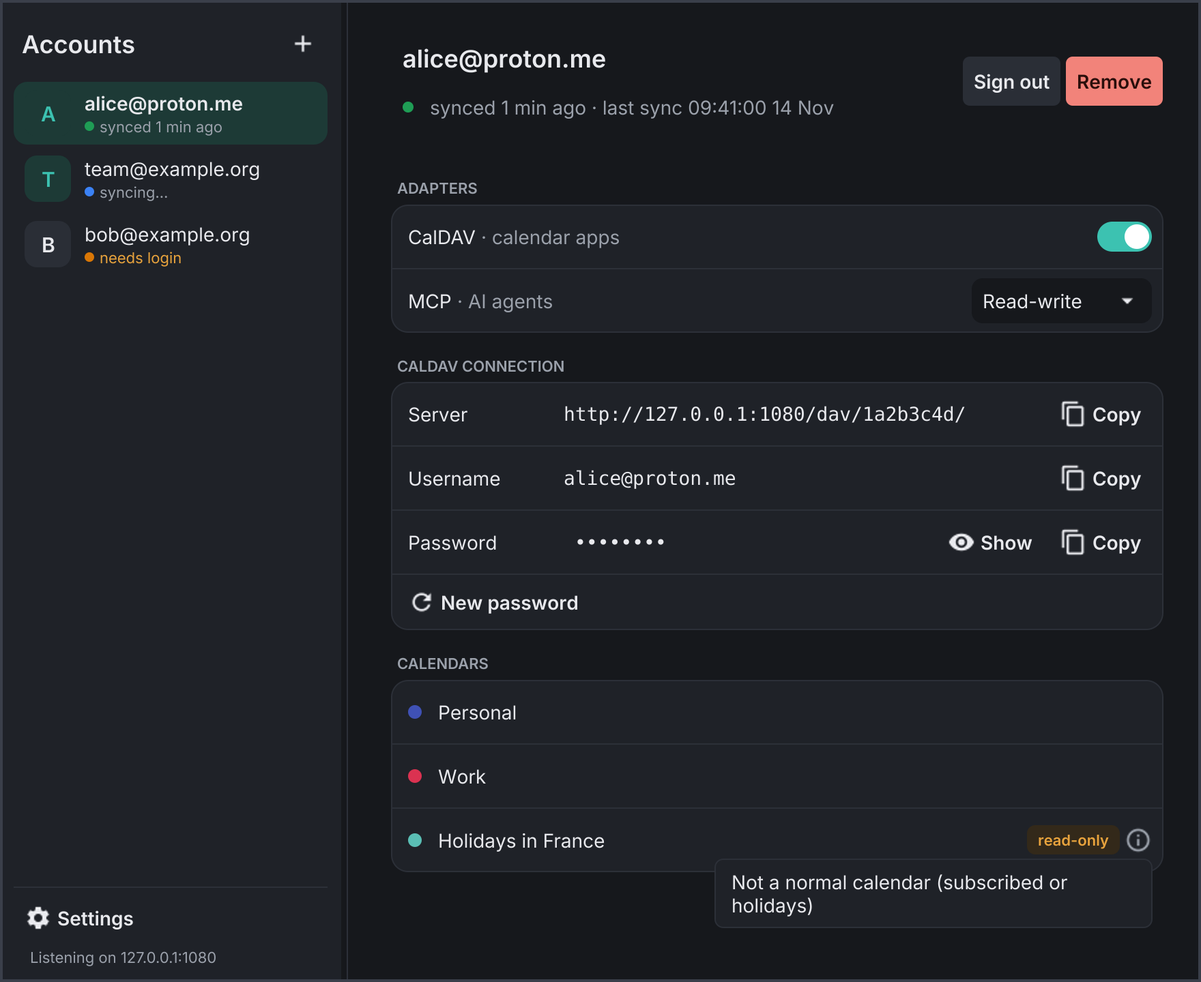
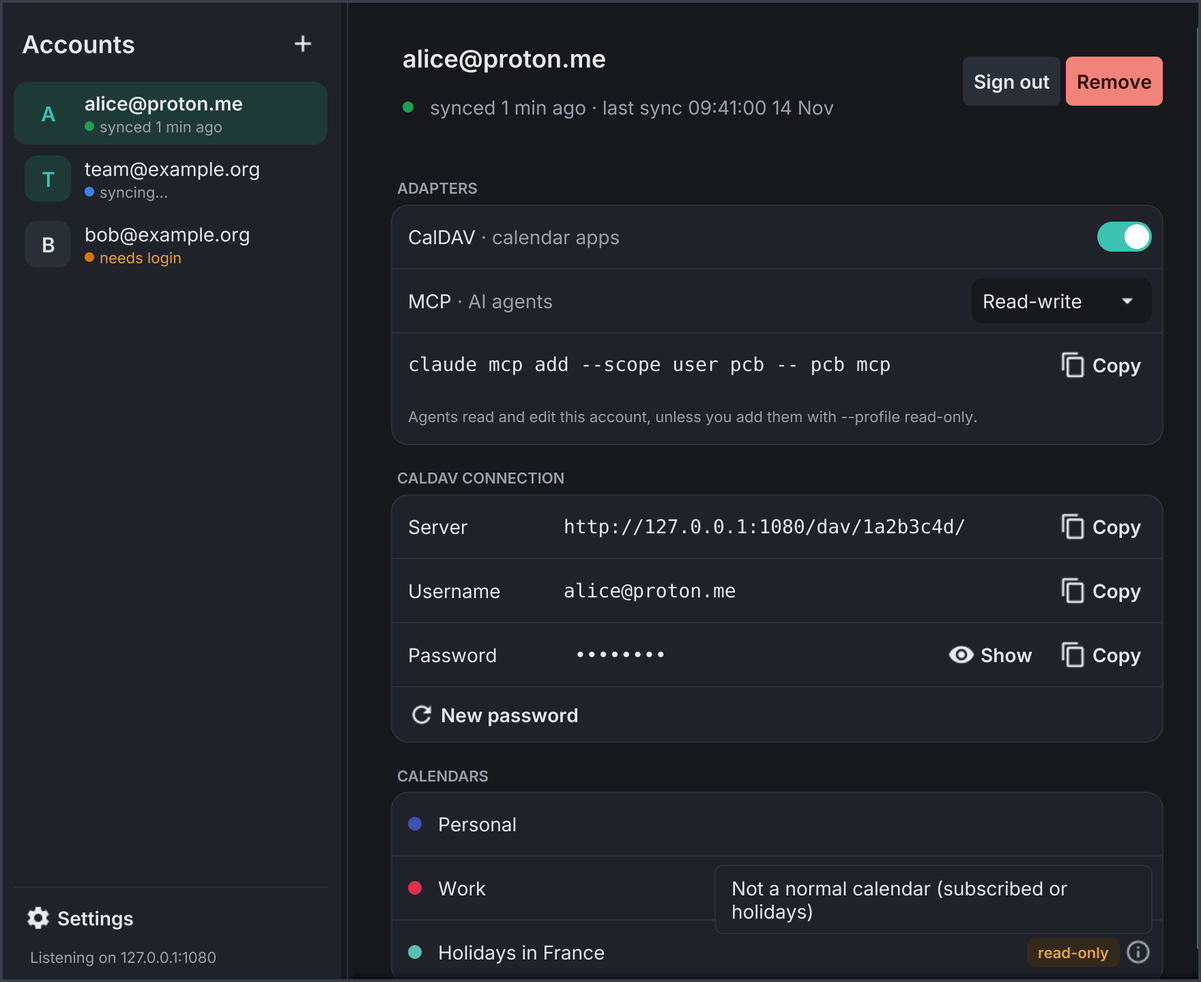
✨ Default pcb mcp to the full profile and explain the MCP choices in pcb-ui (#18)
Closes #13.

## What changes

- `pcb mcp` defaults to `--profile full`; `read-only` must be asked for.
A plain `claude mcp add pcb -- pcb mcp` on a Read-write account now
edits, so the Read-write label no longer misleads.
- Account MCP labels stay **Off / Read-only / Read-write** in pcb-ui,
the CLI and `--json` (no rename, no `schema_version` change).
- pcb-ui: under the MCP selector, the command `claude mcp add --scope
user pcb -- pcb mcp` with a Copy button, and a per-mode hint
(Read-write: agents edit unless added with `--profile read-only`;
Read-only: every change refused; Off: hidden).
- Docs: README, `docs/agents.md`, `docs/desktop.md`, `docs/commands.md`,
and an upgrade note in `docs/install.md` (agents added without a profile
now edit, delete and can sign out). Spec amendments dated 2026-11-14
(design §5.3/§5.5, decision 0016, SPEC). Fresh screenshots.

## Why

Author's call on issue 13: default to full, explicit for read-only.
Accepted consequence: `manage` (logout) comes with the default, and a
client without form elicitation deletes and logs out on the grant alone;
over stdio the profile is a guard rail, not a boundary.

## How it was checked

- `make lint test` green.
- `TestMCPStdioBecomesTheDaemon` asserts the default serves the full
profile's tools; `TestMCPStdioRelaysToARunningDaemon` asserts an
explicit `--profile read-only` serves reads only.
- New `TestMCPAgentHint`: command, Copy, hint per mode, hidden on Off,
[…]

diff --git a/internal/ui/desktop/account.go b/internal/ui/desktop/account.go
@@ -108,8 +108,11 @@ type accountPane struct {
 	statusDot          *canvas.Circle
 	signBtn, removeBtn *widget.Button
 	caldav             *toggle
-	mcp                *widget.Select // off, read-only, read-write (mcpChoices)
-	mcpSilent          bool           // setAccount is selecting: no call
+	mcp                *widget.Select  // off, read-only, read-write (mcpChoices)
+	mcpSilent          bool            // setAccount is selecting: no call
+	agentRow           *fyne.Container // the agent command and the mode's hint, hidden when MCP is off
+	agentCopy          *widget.Button
+	agentHint          *widget.Label
 	conn               *fyne.Container
 	url, user, fp      *textLine
 	urlCopy, userCopy  *widget.Button // the URL's and the username's Copy (F6)
@@ -154,6 +157,11 @@ func newAccountPane(w *Window) *accountPane {
 	p.removeBtn.Importance = widget.DangerImportance
 	p.caldav = newToggle("CalDAV", p.setCalDAV)
 	p.mcp = widget.NewSelect(mcpLabels(), p.setMCP)
+	agentCmd := mono(agentCommand)
+	p.agentCopy = w.copyOf(agentCmd)
+	p.agentHint = wrapped("")
+	p.agentHint.Importance = widget.LowImportance
+	p.agentHint.SizeName = theme.SizeNameCaptionText
 	p.url, p.user, p.fp = mono(""), mono(""), mono("")
 	p.urlCopy, p.userCopy = w.copyOf(p.url), w.copyOf(p.user)
 	p.pw = newPwBox(w)
@@ -170,9 +178,11 @@ func newAccountPane(w *Window) *accountPane {
 
 	header := container.NewBorder(nil, nil, nil, vcenter(container.NewHBox(p.signBtn, p.removeBtn)),
 		vbox(0, p.addr, container.NewBorder(nil, nil, pad(0, 0, 8, 0, dotObj), nil, p.status)))
+	p.agentRow = divided(vbox(0, groupRow(nil, 0, agentCmd, p.agentCopy), pad(0, 6, 4, 8, p.agentHint)))
 	adapters := group("ADAPTERS",
 		groupRow(adapterKey("CalDAV", "calendar apps"), 0, nil, vcenter(p.caldav)),
 		divided(groupRow(adapterKey("MCP", "AI agents"), 0, nil, vcenter(p.mcp))),
+		p.agentRow,
 	)
 	p.fpRow = divided(groupRow(key("Fingerprint"), keyWidth, p.fp))
 	p.conn = group("CALDAV CONNECTION",
@@ -214,6 +224,7 @@ func (p *accountPane) setAccount(av ui.AccountView) {
 	p.mcpSilent = true
 	p.mcp.SetSelected(mcpLabel(av.MCPMode))
 	p.mcpSilent = false
+	p.showAgentHint(av.MCPMode)
 	p.url.SetText(av.URL)
 	p.user.SetText(av.Username)
 	p.fp.SetText(av.Fingerprint)
@@ -285,6 +296,29 @@ func mcpLabels() []string {
 	return out
 }
 
+// agentCommand adds pcb to Claude Code, for every project, with the
+// default (full) profile.
+const agentCommand = "claude mcp add --scope user pcb -- pcb mcp"
+
+// agentHints say what the agents may do under each mode that lets them see
+// the account: the account's mode and the agent's profile both apply.
+var agentHints = map[service.MCPMode]string{
+	service.MCPReadWrite: "Agents read and edit this account, unless you add them with --profile read-only.",
+	service.MCPReadOnly:  "Agents only read this account: every change is refused, whatever their profile.",
+}
+
+// showAgentHint shows the agent command and mode's hint, or hides them
+// when agents do not see the account.
+func (p *accountPane) showAgentHint(mode service.MCPMode) {
+	hint, ok := agentHints[mode]
+	if !ok {
+		p.agentRow.Hide()
+		return
+	}
+	p.agentHint.SetText(hint)
+	p.agentRow.Show()
+}
+
 // mcpLabel is mode's choice; an unknown mode selects none.
 func mcpLabel(mode service.MCPMode) string {
 	for _, c := range mcpChoices {
@@ -323,6 +357,7 @@ func (p *accountPane) setMCP(label string) {
 		}
 		if p.av.ID == id { // the next Update brings the same; until then, a second choice compares with this one
 			p.av.MCPMode = mode
+			p.showAgentHint(mode)
 		}
 	})
 }

diff --git a/internal/cli/mcp_test.go b/internal/cli/mcp_test.go
@@ -165,8 +165,8 @@ func socketStatus(t *testing.T, r *rig) ctl.Status {
 
 // With no daemon, pcb mcp becomes one for the session: the control socket
 // reports kind mcp and no listener, its tools answer over stdio under the
-// read-only profile, and the end of stdin ends it with exit 0, the socket
-// removed.
+// full profile (the default, the author's call of 2026-11-14), and the end
+// of stdin ends it with exit 0, the socket removed.
 func TestMCPStdioBecomesTheDaemon(t *testing.T) {
 	t.Parallel()
 	r := newRig(t, &protontest.Options{})
@@ -177,8 +177,8 @@ func TestMCPStdioBecomesTheDaemon(t *testing.T) {
 		t.Errorf("status accounts = %v, want %s", got, r.f.Username)
 	}
 	names := toolNames(t, cs)
-	if !slices.Contains(names, "events_list") || slices.Contains(names, "event_create") {
-		t.Errorf("tools = %v, want the read-only profile's", names)
+	if !slices.Contains(names, "event_create") || !slices.Contains(names, "event_delete") || !slices.Contains(names, "logout") {
+		t.Errorf("tools = %v, want the full profile's (the default)", names)
 	}
 	st := socketStatus(t, r)
 	if st.Daemon == nil || st.Daemon.Kind != "mcp" || st.Listener != nil {
@@ -197,20 +197,21 @@ func TestMCPStdioBecomesTheDaemon(t *testing.T) {
 }
 
 // With a daemon running (pcb serve), pcb mcp relays to it: same accounts,
-// the daemon counts a relay session, and serve.lock stays the daemon's.
+// the profile asked for (here the read-only one, never the default), the
+// daemon counts a relay session, and serve.lock stays the daemon's.
 func TestMCPStdioRelaysToARunningDaemon(t *testing.T) {
 	t.Parallel()
 	r := newRig(t, &protontest.Options{})
 	r.want(exitcode.OK, "login", "--non-interactive", "--json")
 	s := startServe(t, r, nil, "--listen", "127.0.0.1:0")
 	s.listening()
-	m := startMCP(t, r, nil, "--profile", "full")
+	m := startMCP(t, r, nil, "--profile", "read-only")
 	cs := m.connect("2026-07-28")
 	if got := mcpStatus(t, cs); !slices.Equal(got, []string{r.f.Username}) {
 		t.Errorf("status accounts = %v, want %s", got, r.f.Username)
 	}
-	if names := toolNames(t, cs); !slices.Contains(names, "event_delete") {
-		t.Errorf("tools = %v, want the full profile's", names)
+	if names := toolNames(t, cs); !slices.Contains(names, "events_list") || slices.Contains(names, "event_create") || slices.Contains(names, "logout") {
+		t.Errorf("tools = %v, want the read-only profile's", names)
 	}
 	st := socketStatus(t, r)
 	if st.Daemon == nil || st.Daemon.Kind != "serve" || st.MCP == nil || st.MCP.Sessions["relay"] != 1 || st.MCP.Sessions["stdio"] != 0 {

diff --git a/internal/ui/desktop/window_test.go b/internal/ui/desktop/window_test.go
@@ -596,6 +596,52 @@ func TestMCPSelectorCallsSetMCP(t *testing.T) {
 	}
 }
 
+// Under the MCP selector, the command that adds pcb to Claude Code, with
+// its Copy, and what the agents of the shown mode may do: both settings
+// apply (issue 13), so Read-write says the agent's profile can still keep
+// it to reads. Off has nothing to add an agent to.
+func TestMCPAgentHint(t *testing.T) {
+	f := newFixture(t)
+	f.w.Update(twoAccounts())
+	f.w.Show("a1")
+	if !f.visible(f.w.pane.agentRow) || !f.visible(f.w.pane.agentCopy) {
+		t.Fatal("no agent command under a Read-write account's MCP selector")
+	}
+	if !f.has("claude mcp add --scope user pcb -- pcb mcp") || !f.has("--profile read-only") || f.has("every change is refused") {
+		t.Errorf("Read-write hint: %v", f.texts())
+	}
+	test.Tap(f.w.pane.agentCopy)
+	if got := f.app.Clipboard().Content(); got != "claude mcp add --scope user pcb -- pcb mcp" {
+		t.Errorf("agent Copy: clipboard = %q", got)
+	}
+	v := twoAccounts()
+	v.Accounts[0].MCPMode = service.MCPReadOnly
+	f.w.Update(v)
+	if !f.visible(f.w.pane.agentRow) || !f.has("every change is refused") || f.has("--profile read-only") {
+		t.Errorf("Read-only hint: %v", f.texts())
+	}
+	f.w.Show("b2")
+	if f.visible(f.w.pane.agentRow) {
+		t.Error("agent command shown for an account with MCP off")
+	}
+	if len(f.act.got()) != 0 {
+		t.Errorf("the hint or its Copy called the bridge: %v", f.act.got())
+	}
+	// A choice that went through changes the hint at once, before the
+	// next update.
+	f.w.Show("a1")
+	f.w.pane.mcp.SetSelected("Read-write")
+	f.wait()
+	if !f.has("--profile read-only") {
+		t.Errorf("hint after choosing Read-write: %v", f.texts())
+	}
+	f.w.pane.mcp.SetSelected("Off")
+	f.wait()
+	if f.visible(f.w.pane.agentRow) {
+		t.Error("agent command still shown after choosing Off")
+	}
+}
+
 func TestRemoveAsksThenCalls(t *testing.T) {
 	f := newFixture(t)
 	f.w.Update(twoAccounts())
@@ -923,8 +969,8 @@ func TestConnectionCopiesURLAndUsername(t *testing.T) {
 	v.Accounts[1].CalDAV, v.Accounts[1].URL, v.Accounts[1].Username = true, "http://127.0.0.1:8080/dav/b2/", "bob@example.org"
 	f.w.Update(v)
 	f.w.Show("a1")
-	if got := f.copies(); len(got) != 3 {
-		t.Fatalf("Copy buttons in the connection block: %d, want 3 (URL, username, password)", len(got))
+	if got := f.copies(); len(got) != 4 {
+		t.Fatalf("Copy buttons: %d, want 4 (the agent command, then the connection's URL, username, password)", len(got))
 	}
 	test.Tap(f.w.pane.urlCopy)
 	if got := f.app.Clipboard().Content(); got != "http://127.0.0.1:8080/" {

diff --git a/internal/cli/mcp.go b/internal/cli/mcp.go
@@ -23,8 +23,8 @@ func (a *app) newMCP() *cobra.Command {
 		Long: "Speak MCP on stdin and stdout for the agent that runs this command; logs and warnings go to stderr. " +
 			"When a pcb daemon runs (pcb serve, pcb-ui), the session is relayed to it over its control socket; " +
 			"otherwise pcb mcp serves the accounts itself until the agent ends the session (kind mcp: no network " +
-			"listener, and pcb serve or pcb-ui cannot start meanwhile). --profile read-only (the default) allows " +
-			"reading and starting a login, full allows everything; --allow replaces the profile with a " +
+			"listener, and pcb serve or pcb-ui cannot start meanwhile). --profile full (the default) allows " +
+			"everything, read-only allows reading and starting a login; --allow replaces the profile with a " +
 			"comma-separated list among freebusy, read, write, delete, login, manage. --account limits the session " +
 			"to accounts (address or local ID, repeatable; none: every account). With a system-scope pcb service " +
 			"installed, use its remote /mcp with a token instead (pcb mcp token).",
@@ -42,7 +42,7 @@ func (a *app) newMCP() *cobra.Command {
 			return a.runMCP(cmd, g)
 		},
 	})
-	c.Flags().StringVar(&profile, "profile", "read-only", "what the agent may do: `PROFILE` read-only or full")
+	c.Flags().StringVar(&profile, "profile", "full", "what the agent may do: `PROFILE` full or read-only")
 	c.Flags().StringVar(&allow, "allow", "", "what the agent may do, instead of a profile: `CAPS` comma-separated among freebusy, read, write, delete, login, manage")
 	// --account here is the command's own (repeatable: the session's
 	// scope), in place of the root's selector; selecting lets it past the

diff --git a/internal/cli/account.go b/internal/cli/account.go
@@ -227,7 +227,7 @@ func (a *app) newAccountCalDAV() *cobra.Command {
 func (a *app) newAccountMCP() *cobra.Command {
 	return a.adapterSwitch("mcp", "MCP", "off|read-only|read-write", "off, read-only or read-write",
 		"Set what agents may do with the account: off (they do not see it; its sync pauses only when CalDAV is off too), "+
-			"read-only (they read, every change is refused, whatever their profile or token) or read-write (as their profile or token allows; on is read-write too)",
+			"read-only (they read, every change is refused, whatever their profile or token) or read-write (as their profile or token allows: everything for pcb mcp's default profile; on is read-write too)",
 		func(arg string) (accountChange, string, error) {
 			mode, err := service.ParseMCPMode(arg)
 			if err != nil {

diff --git a/spec/designs/2026-11-13-mcp-design.md b/spec/designs/2026-11-13-mcp-design.md
@@ -100,7 +100,7 @@ At start, and again whenever its daemon disappears:
 - **Another user's daemon** [call, builder check]. `pcb mcp` finds only a daemon of its own UID and directories (`ctl` refuses another peer UID). When a system-scope pcb unit is installed (`pcb install --system`, detected as `pcb uninstall` does), `pcb mcp` never becomes a session daemon: exit 20, hint "pcb runs as a system service here: use its remote /mcp with a token (`[mcp] remote = true`, a loopback `listen` is enough)". Otherwise a second state could serve the same Proton account unseen by `serve.lock`. A container is supported over stdio by running `pcb mcp` inside it (`docker exec -i <container> pcb mcp`): same user and directories, so it relays.
 - **Sealer guard** [review]. On a state with no `layout.json` yet, under `[secrets] backend = auto`, `pcb mcp` creates the state only when a Secret Service answers (the keyring is chosen); with no session bus or no answer, `login` refuses: exit-10-class tool error "pcb mcp will not choose how secrets are sealed: set [secrets] backend in <config path>, or run the first pcb login in a terminal". An explicit `backend` is honoured as by every command. Agent hosts that scrub `DBUS_SESSION_BUS_ADDRESS` cannot fix a desktop state to the key file by accident. *Built (R20): the guard runs when the session daemon starts, before it opens the state, since opening a new state already records its sealer: `pcb mcp` exits 10 with that message on stderr and creates nothing; the `login` tool asks it again.*
 - **Trust** [review]. Over stdio, grants are a guard rail, not a boundary: any process of the same UID can run `pcb` or dial the socket. The control socket's `/mcp` route takes the grants the relaying process sends; the peer-UID check stays the only boundary. Decision 0016 supersedes the SPEC §12 note "agents never on the control socket" with "agents reach the control socket only through its `/mcp` route, under same-UID trust; never the `/v2` routes". `pcb mcp` uses no `/v2` route except the probe.
-- **Profiles.** `read-only` = `read` + `login`; `full` = every capability. `--allow` replaces the profile with an explicit list; `--account` narrows accounts. Default: `read-only` [call: the safe default; the author's "configurable read-only or full"].
+- **Profiles.** `read-only` = `read` + `login`; `full` = every capability. `--allow` replaces the profile with an explicit list; `--account` narrows accounts. Default: `read-only` [call: the safe default; the author's "configurable read-only or full"]. *Amended 2026-11-14 [author, issue 13]: the default is `full`, so `claude mcp add pcb -- pcb mcp` on a Read-write account edits as the selector says; `read-only` is asked for explicitly. `manage` (and so a `logout` without form elicitation) now comes with the default too, accepted: over stdio the profile is a guard rail, and the person's own `pcb logout` runs unasked as well.*
 
 ### 5.4 Grants [call, review]
 
@@ -128,7 +128,7 @@ Capabilities, each a set of tools:
 - **Pending login across a daemon start** [review]: in session mode the pending login lives in the session daemon's Hub; when relaying, in the daemon's. The loopback page holds no login state of its own, so no daemon ever misses an account added behind its back.
 - **Cooldown**: one `login` call per 60 s per MCP session, on top of the Hub's login guard and "one login at a time" [review].
 - `login_status` is folded into `status` (the account's phase: `needs-totp`, `needs-captcha`, ready).
-- `logout(account)` (`manage`, stdio only) signs one account out as `pcb logout` does; asked for confirmation by elicitation when the client supports it, else refused unless the profile grants `manage` explicitly (`full` does). *Built: without form elicitation the `manage` grant alone allows it; `manage` is only ever granted explicitly (`full` or `--allow`), so the effect is the same.*
+- `logout(account)` (`manage`, stdio only) signs one account out as `pcb logout` does; asked for confirmation by elicitation when the client supports it, else refused unless the profile grants `manage` explicitly (`full` does). *Built: without form elicitation the `manage` grant alone allows it; `manage` is only ever granted explicitly (`full` or `--allow`), so the effect is the same.* *Amended 2026-11-14 [author]: `full` became the default profile, so `manage` is no longer only explicit; a client without form elicitation logs out on the default grant, accepted (§5.3 Profiles).*
 - Over remote, `status` reports `needs-login` with the human step ("run `pcb login` on the server, or open pcb-ui"); there is no login tool.
 
 ### 5.5b Per-account MCP switch [author]

diff --git a/docs/agents.md b/docs/agents.md
@@ -36,7 +36,7 @@ That helps, but your controls are:
 The agent starts `pcb mcp`, which speaks MCP on stdin and stdout.
 
 ```sh
-pcb mcp [--profile read-only|full] [--allow CAPS] [--account A]
+pcb mcp [--profile full|read-only] [--allow CAPS] [--account A]
 ```
 
 - **When pcb already runs** (`pcb serve`, the service, `pcb-ui`), it relays the session to it over the control socket. There is no port to set: with `pcb-ui`, the agent still starts `pcb mcp`, so the `pcb` binary must be installed too.
@@ -48,8 +48,8 @@ pcb mcp [--profile read-only|full] [--allow CAPS] [--account A]
 ### Set up Claude Code
 
 ```sh
-claude mcp add --scope user pcb -- pcb mcp                    # read-only (the default): read, plus starting a login
-claude mcp add --scope user pcb -- pcb mcp --profile full     # also create, edit, delete, log out
+claude mcp add --scope user pcb -- pcb mcp                         # full (the default): read, create, edit, delete, log in and out
+claude mcp add --scope user pcb -- pcb mcp --profile read-only     # read, plus starting a login
 ```
 
 `--scope user` makes `pcb` available in every Claude Code session. Without it, Claude Code keeps the server for the directory you ran the command in only (its `local` scope), and a session started elsewhere does not list it. `claude mcp list` shows what a session sees; restart a running session after adding the server.
@@ -59,7 +59,7 @@ To give the server an environment, `-e KEY=value` goes after its name: `-e` take
 Or in a project's `.mcp.json`:
 
 ```json
-{"mcpServers": {"pcb": {"command": "pcb", "args": ["mcp", "--profile", "full"]}}}
+{"mcpServers": {"pcb": {"command": "pcb", "args": ["mcp"]}}}
 ```
 
 Give the absolute path of `pcb` when the agent's `PATH` lacks it.
@@ -74,10 +74,11 @@ Give the absolute path of `pcb` when the agent's `PATH` lacks it.
 | `delete` (needs `write`) | + `event_delete` |
 | `login` (stdio only) | `login` |
 | `manage` (stdio only) | `logout` |
-| `--profile read-only` (default) | `read` + `login` |
-| `--profile full` | all six |
+| `--profile full` (default) | all six |
+| `--profile read-only` | `read` + `login` |
 
 - `--allow write,delete` replaces the profile.
+- The default lets an agent delete events and sign an account out. pcb asks you first when the agent's client can ask, not otherwise ([deletes](#deletes-and-sign-outs-ask-you)); for an agent you would not let do that unasked, use `--allow write,login` or `--profile read-only`.
 - `--account ADDRESS` (repeatable) limits the session to those accounts.
 - Over stdio a profile is a guard rail, not a lock: any program running as you can run `pcb` itself.
 ### Two settings, the stricter wins
@@ -91,13 +92,13 @@ Two settings decide what an agent may do, and both always apply:
 
 An agent gets what both allow:
 
-| Account's MCP setting | Agent with `--profile read-only` (the default) | Agent with `--profile full`, or a token with `write` |
+| Account's MCP setting | Agent with `--profile full` (the default), or a token with `write` | Agent with `--profile read-only` |
 |---|---|---|
 | Off | does not see the account | does not see the account |
-| Read-only | reads | reads; every change is refused |
-| Read-write (the default) | reads; it has no tools to edit | reads and edits |
+| Read-only | reads; every change is refused | reads |
+| Read-write (the default) | reads and edits | reads; it has no tools to edit |
 
-Read-write on an account does not let an agent edit by itself: add the agent with `--profile full` (or `--allow write`) too.
+With both defaults an agent reads and edits. To keep agents to reads, set the account to Read-only (every agent) or add the agent with `--profile read-only` (that agent).
 
 - Off hides the account from every agent at once. Its sync keeps running while CalDAV is on.
 - Read-only refuses every change, from any profile or token: `event_create`, `event_update`, `event_delete` and `logout` answer `refused` (reason `pcb:account-read-only`), and `calendars_list`, `event_get` and `status` show the account as `read_only`.

diff --git a/docs/desktop.md b/docs/desktop.md
@@ -36,7 +36,7 @@ After `make install-ui` it is also in your applications menu.
 | Part | What it does |
 |---|---|
 | Tray icon | Three states: ok, syncing, needs attention. Its menu has Quit. |
-| Window | Your Proton accounts. Per account: the CalDAV switch, the MCP selector (Off, Read-only or Read-write: what AI agents may do with the account), its calendars (each with a dot of its Proton colour, and a `read-only` tag when pcb cannot write to it: hover the info icon next to the tag for the reason), and the connection to copy into Thunderbird (URL and username, each with Copy, and the password hidden behind Show and Copy). |
+| Window | Your Proton accounts. Per account: the CalDAV switch, the MCP selector (Off, Read-only or Read-write: what AI agents may do with the account, with the Claude Code command to copy under it), its calendars (each with a dot of its Proton colour, and a `read-only` tag when pcb cannot write to it: hover the info icon next to the tag for the reason), and the connection to copy into Thunderbird (URL and username, each with Copy, and the password hidden behind Show and Copy). |
 | Add-account wizard | Password, 2FA code, CAPTCHA. |
 | Notifications | A desktop notification when an account needs you. |
 | Settings | "Start at login", "Open config.toml", "Restart bridge", the log level. |
@@ -56,13 +56,13 @@ The window then shows the account's connection details. Copy them into Thunderbi
 For Claude Code:
 
 ```sh
-claude mcp add --scope user pcb -- pcb mcp                    # read-only (the default)
-claude mcp add --scope user pcb -- pcb mcp --profile full     # also create, edit, delete
+claude mcp add --scope user pcb -- pcb mcp                         # read, create, edit, delete (the default)
+claude mcp add --scope user pcb -- pcb mcp --profile read-only     # read only
 ```
 
 `--scope user` makes it available in every Claude Code session, not only in the directory you ran the command in ([scopes](agents.md#set-up-claude-code)). Give the absolute path of `pcb` (`~/.local/bin/pcb`) when the agent's `PATH` lacks it.
 
-The MCP selector in the window is not a server switch: it says what any agent may do with that account. The agent's profile says what that agent may do. Both apply, and the stricter wins: Read-write in the window lets an agent edit only if you also added it with `--profile full` ([the two settings](agents.md#two-settings-the-stricter-wins)).
+The MCP selector in the window is not a server switch: it says what any agent may do with that account. The agent's profile says what that agent may do. Both apply, and the stricter wins: on Read-write, an agent added with the first command edits and one added with `--profile read-only` only reads; on Read-only, every agent only reads ([the two settings](agents.md#two-settings-the-stricter-wins)). Under the selector, the window shows the first command with a Copy button, and what agents may do with the setting chosen.
 
 An agent on another machine uses the remote `/mcp` with a token: turn it on in `config.toml` (Settings, "Open config.toml", then "Restart bridge") and create the token with `pcb mcp token add` ([remote](agents.md#from-another-machine-remote-with-a-token)).
 

diff --git a/spec/SPEC.md b/spec/SPEC.md
@@ -1383,8 +1383,8 @@ relayed to `pcb-ui` and remote `/mcp` with a token passed; its three defects are
 - **Grants.** Capabilities `freebusy` < `read` < `write`, plus `delete` (needs `write`: refused otherwise),
   `login` and `manage` (stdio only, refused on tokens); `read` brings `freebusy`, `write` brings `read`
   [verified: `TestParseCapsAppliesImplications`, `TestMCPTokenRefusesLoginCap`, `TestMCPTokenRefusesDeleteWithoutWrite`].
-  stdio profiles: `read-only` (`read` + `login`, the default) and `full` (all six); `--allow` replaces the profile
-  [verified: `TestProfiles`]. A grant names accounts (address, case-insensitive, or local ID; none: every account,
+  stdio profiles: `full` (all six, the default since 2026-11-14) and `read-only` (`read` + `login`); `--allow` replaces
+  the profile [verified: `TestProfiles`, `TestMCPStdioBecomesTheDaemon`, `TestMCPStdioRelaysToARunningDaemon`]. A grant names accounts (address, case-insensitive, or local ID; none: every account,
   later ones included) and, for a token, calendar IDs (none: all). An account outside the grant, pending, with
   MCP off (`pcb account mcp off`, the person's kill switch for every agent) or signed out (`logged-out`) is
   invisible: a call naming it or one of its `event_id`s answers as for something that does not exist (`no account
@@ -1573,7 +1573,7 @@ pcb client rotate NAME|ID                    # M5, decision 0013: a new password
 pcb account list                            # M6: local ID, address, phase, CalDAV on/off (M8: and MCP off/read-only/read-write), last sync; pending adds included; the daemon's view when one answers
 pcb account caldav on|off                   # M6: the account's CalDAV switch (§4.1)
 pcb account mcp off|read-only|read-write    # M8: the account's MCP switch (§4.1); read-only since 2026-11-14, on = read-write
-pcb mcp [--profile read-only|full] [--allow CAPS] [--account A]...   # M8: MCP on stdin/stdout for the agent that runs it (§12): relayed to a running daemon, else serving the session itself (kind mcp); not with --json
+pcb mcp [--profile full|read-only] [--allow CAPS] [--account A]...   # M8: MCP on stdin/stdout for the agent that runs it (§12; full the default since 2026-11-14): relayed to a running daemon, else serving the session itself (kind mcp); not with --json
 pcb mcp token add NAME --allow CAPS [--account A]... [--calendar ID]... [--expires D] [--plan]   # M8: a remote agent's bearer token, printed once (§12)
 pcb mcp token list                          # M8: name, grants, created, last used, expiry (expired ones marked)
 pcb mcp token remove NAME [--yes]           # M8: the token stops working at once

diff --git a/docs/commands.md b/docs/commands.md
@@ -25,7 +25,7 @@ Details: [security](security.md#log-in).
 |---|---|
 | `pcb account list` | Every account: local ID, address, phase, CalDAV on or off, MCP off, read-only or read-write, last sync. A pending add, stopped by a CAPTCHA, is listed too. |
 | `pcb account caldav on\|off` | The account's CalDAV switch. Off, its CalDAV clients are refused; its sync pauses only when MCP is off too. |
-| `pcb account mcp off\|read-only\|read-write` | What agents may do with the account, whatever their profile or token. Off, they do not see it, and its sync pauses only when CalDAV is off too. Read-only, they read it and every change is refused. Read-write, they do what their profile or token allows (the default). `on` means read-write. |
+| `pcb account mcp off\|read-only\|read-write` | What agents may do with the account, whatever their profile or token. Off, they do not see it, and its sync pauses only when CalDAV is off too. Read-only, they read it and every change is refused. Read-write, they do what their profile or token allows (the default; `pcb mcp`'s default profile allows everything). `on` means read-write. |
 | `pcb account restart` | Serves an account again after it stopped on an error (`pcb status` shows it as `account-stopped`). |
 | `pcb account remove [--yes]` | Signs the account out, then deletes its directory (its cache and CalDAV passwords too). |
 
@@ -71,7 +71,7 @@ Details: [Thunderbird](thunderbird.md#caldav-app-passwords).
 
 | Command | What it does |
 |---|---|
-| `pcb mcp [--profile read-only\|full] [--allow CAPS] [--account A]` | MCP for the agent that runs it, on stdin and stdout ([agents](agents.md)). |
+| `pcb mcp [--profile full\|read-only] [--allow CAPS] [--account A]` | MCP for the agent that runs it, on stdin and stdout; `full`, the default, allows everything, `read-only` reading and starting a login ([agents](agents.md)). |
 | `pcb mcp token add NAME --allow read` | A remote agent's bearer token, printed once. |
 | `pcb mcp token list`, `pcb mcp token remove NAME` | List the tokens (never their values), remove one. |
 

diff --git a/spec/decisions/0016-mcp-adapter.md b/spec/decisions/0016-mcp-adapter.md
@@ -7,7 +7,7 @@
 `pcb` gains A4, an MCP adapter over `service` like CalDAV, built on the official Go SDK (`github.com/modelcontextprotocol/go-sdk`, pure Go, `pcb` stays `CGO_ENABLED=0`).
 
 - **Three entries, one server.** Remote: `/mcp` on the daemon's listener (`[mcp] remote = true`; TLS whenever the bind is not loopback), one `pcbm_` bearer token per agent, hash-only, shown once. stdio: `pcb mcp` relays the session to a running daemon's control socket (`/mcp` route), or, when none runs, runs the daemon machinery itself for the session (kind `mcp`, control socket, no network listener). Writes keep running only during Serve (M4).
-- **Grants.** Capabilities `freebusy` < `read` < `write`, plus `delete`, `login`, `manage`, scoped by account and optionally calendar. `login` and `manage` exist only over stdio. stdio profiles: `read-only` (read + login, the default) and `full`.
+- **Grants.** Capabilities `freebusy` < `read` < `write`, plus `delete`, `login`, `manage`, scoped by account and optionally calendar. `login` and `manage` exist only over stdio. stdio profiles: `read-only` (read + login) and `full` (the default since 2026-11-14, by the author: it was `read-only`).
 - **Login without secrets in the agent.** `login(username)` (stdio only) raises `pcb-ui`'s wizard, or opens a single-use page on 127.0.0.1 in the process that owns the accounts; the person types password, 2FA code and CAPTCHA there. Remote agents never get a login tool. (Built: the wizard and the page share one login state machine, `internal/loginflow`; `internal/mcp` does not import `internal/ui`.)
 - **Per-account switch.** `pcb account mcp on|off` beside `caldav`; an account's loop runs while either is on; `mcp off` hides the account from every agent.
 - **Control socket.** Agents reach it only through its `/mcp` route, under the socket's same-UID trust, never through `/v2` routes. This replaces SPEC §12's note "agents never on the control socket". Over stdio the profile is a guard rail, not a boundary; over remote the token is a boundary.

diff --git a/README.md b/README.md
@@ -102,11 +102,11 @@ Proton cannot store everything Thunderbird can: pcb refuses what it cannot keep 
 ## Give an AI agent your calendar
 
 ```sh
-claude mcp add --scope user pcb -- pcb mcp                    # read-only: read events, start a login
-claude mcp add --scope user pcb -- pcb mcp --profile full     # also create, edit, delete
+claude mcp add --scope user pcb -- pcb mcp                         # read, create, edit, delete events
+claude mcp add --scope user pcb -- pcb mcp --profile read-only     # read events, start a login
 ```
 
-The same commands work with `pcb-ui` running: `pcb mcp` hands the session to it, with no port to set. The account's MCP setting (`pcb account mcp`, or the selector in `pcb-ui`) and the agent's profile both apply, and the stricter wins: an agent edits only with `--profile full` on a Read-write account ([details](docs/agents.md#two-settings-the-stricter-wins)).
+The same commands work with `pcb-ui` running: `pcb mcp` hands the session to it, with no port to set. The account's MCP setting (`pcb account mcp`, or the selector in `pcb-ui`) and the agent's profile both apply, and the stricter wins: an agent edits unless the account is set to Read-only or the agent was added with `--profile read-only` ([details](docs/agents.md#two-settings-the-stricter-wins)).
 
 You type passwords and 2FA codes yourself, in the desktop app or on a one-time local page, never the agent. Text from calendars reaches the agent marked untrusted. An agent on another machine uses `/mcp` with its own token: [docs/agents.md](docs/agents.md).
 
